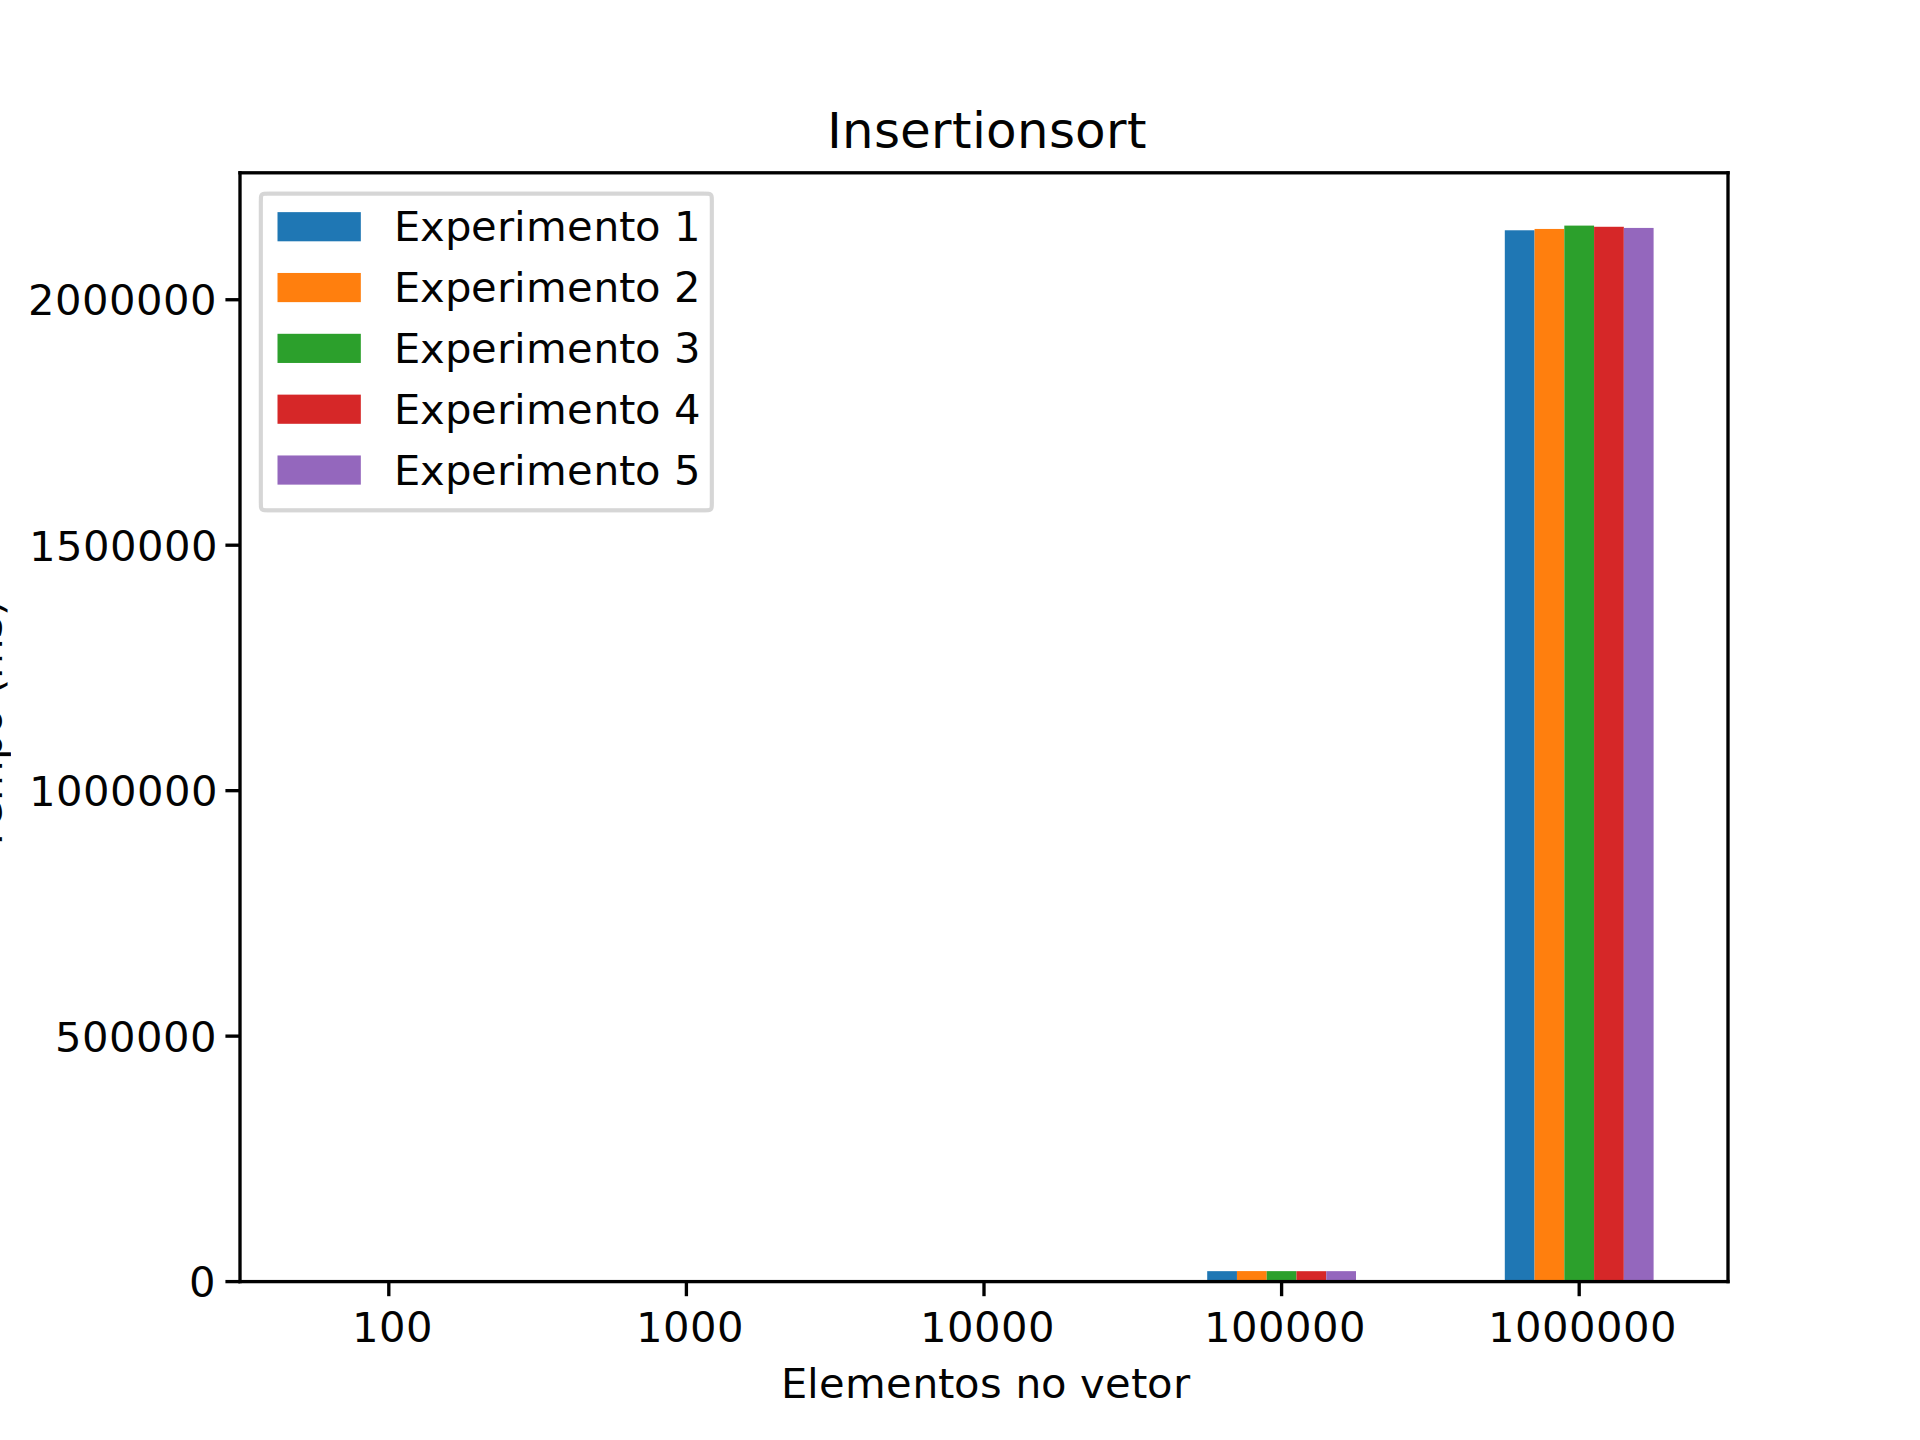
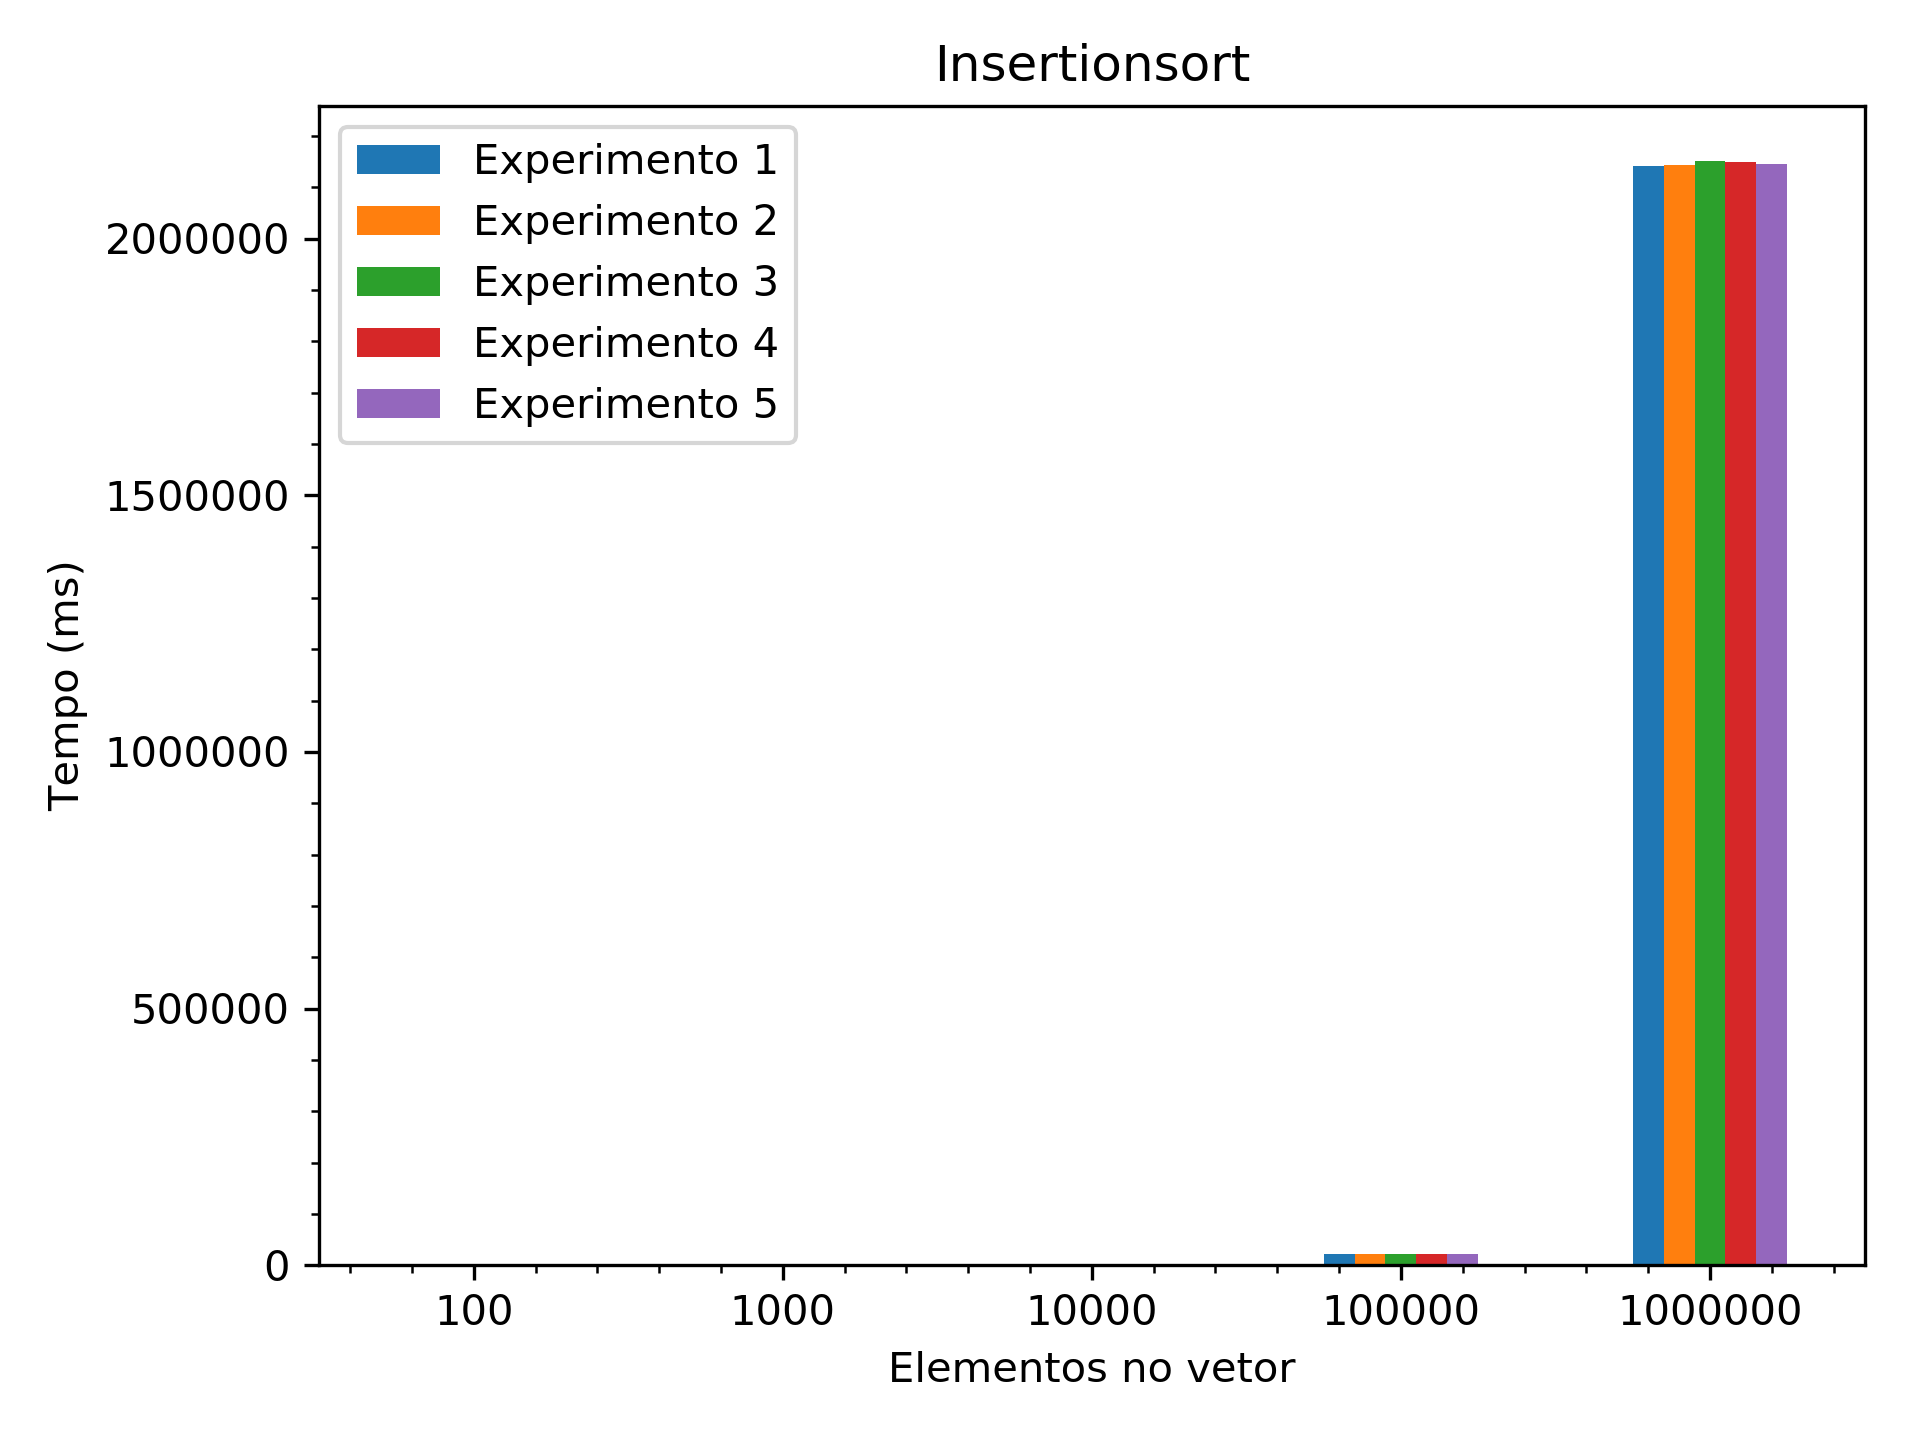
[sort] Reconstrução dos gráficos tight_layout()
Isso evita o overflow dos labels dos eixos x-y

Changed region(s): [[0.0, 0.0312, 0.9688, 0.9688], [0.0, 0.4688, 0.1875, 0.5625], [0.0312, 0.6875, 0.1875, 0.75]]

diff --git a/src/sort/stats.py b/src/sort/stats.py
@@ -59,8 +59,12 @@ def save_graph_algorithm(name: str, df: List[pd.DataFrame]):
     ax.set_ylabel('Tempo (ms)')
     ax.set_xlabel('Elementos no vetor')
     ax.xaxis.set_tick_params(rotation=0)
+    ax.minorticks_on()
+    ax.set_axisbelow(True)
     if name in scales:
         plt.ylim(scales[name])
+
+    plt.tight_layout()
     plt.savefig(name + '.png', dpi=dpi)
     plt.close(fig)
 
@@ -75,9 +79,12 @@ def save_graph_algorithms(dfs: Dict[str, pd.DataFrame], prefix=''):
     ax.set_ylabel('Tempo (ms)')
     ax.set_xlabel('Elementos no vetor')
     ax.xaxis.set_tick_params(rotation=0)
+    ax.minorticks_on()
+    ax.set_axisbelow(True)
     fname = 'sorting'
     if prefix:
         fname = 'sorting-' + prefix
+    plt.tight_layout()
     plt.savefig(fname+'.png', dpi=dpi)
     plt.close(fig)
 
@@ -97,6 +104,9 @@ def save_graph_per_element(dfs: Dict[str, pd.DataFrame]):
         ax.set_xlabel('')
         ax.legend().set_visible(False)
         ax.xaxis.set_tick_params(rotation=0)
+        ax.minorticks_on()
+        ax.set_axisbelow(True)
+        plt.tight_layout()
         plt.savefig('sorting-{}.png'.format(i), dpi=dpi)
         plt.close(fig)
 
